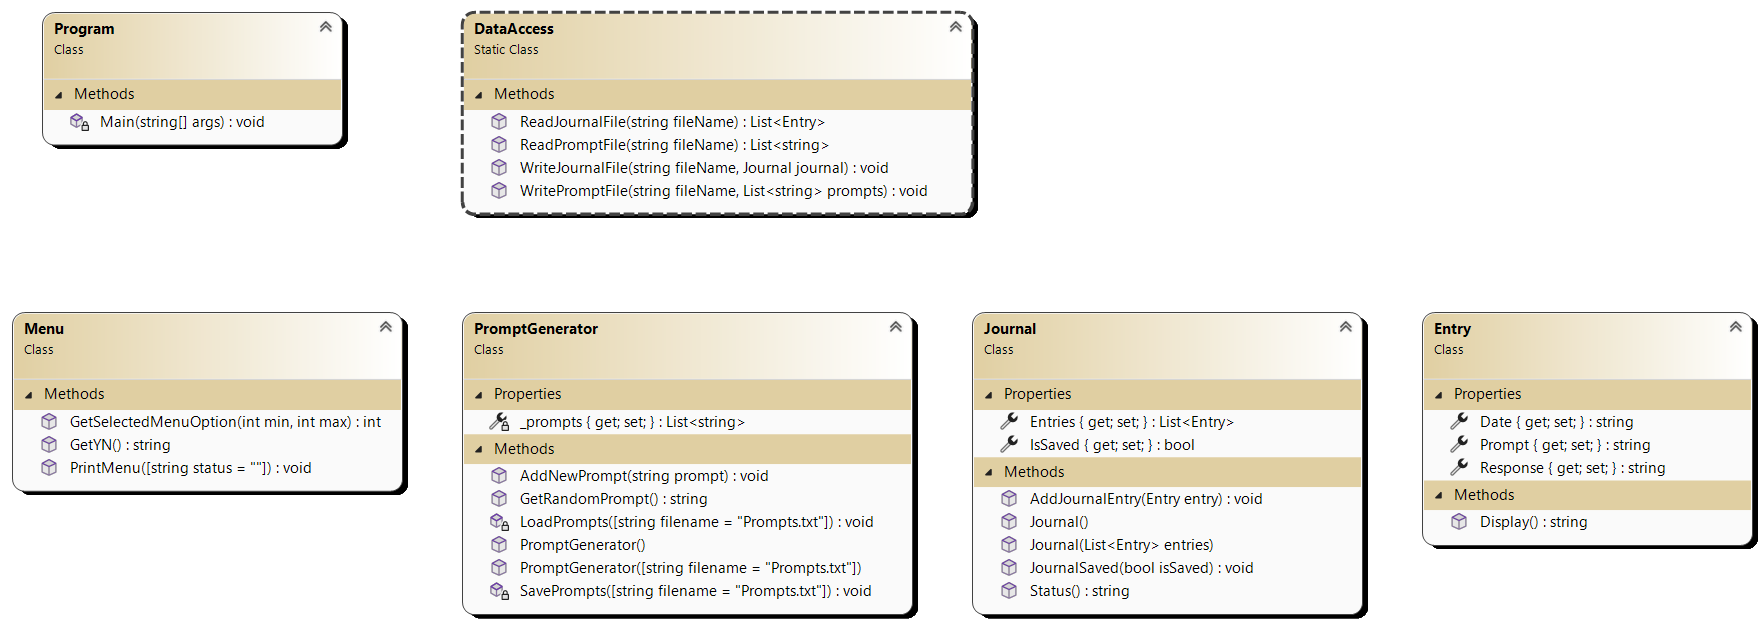
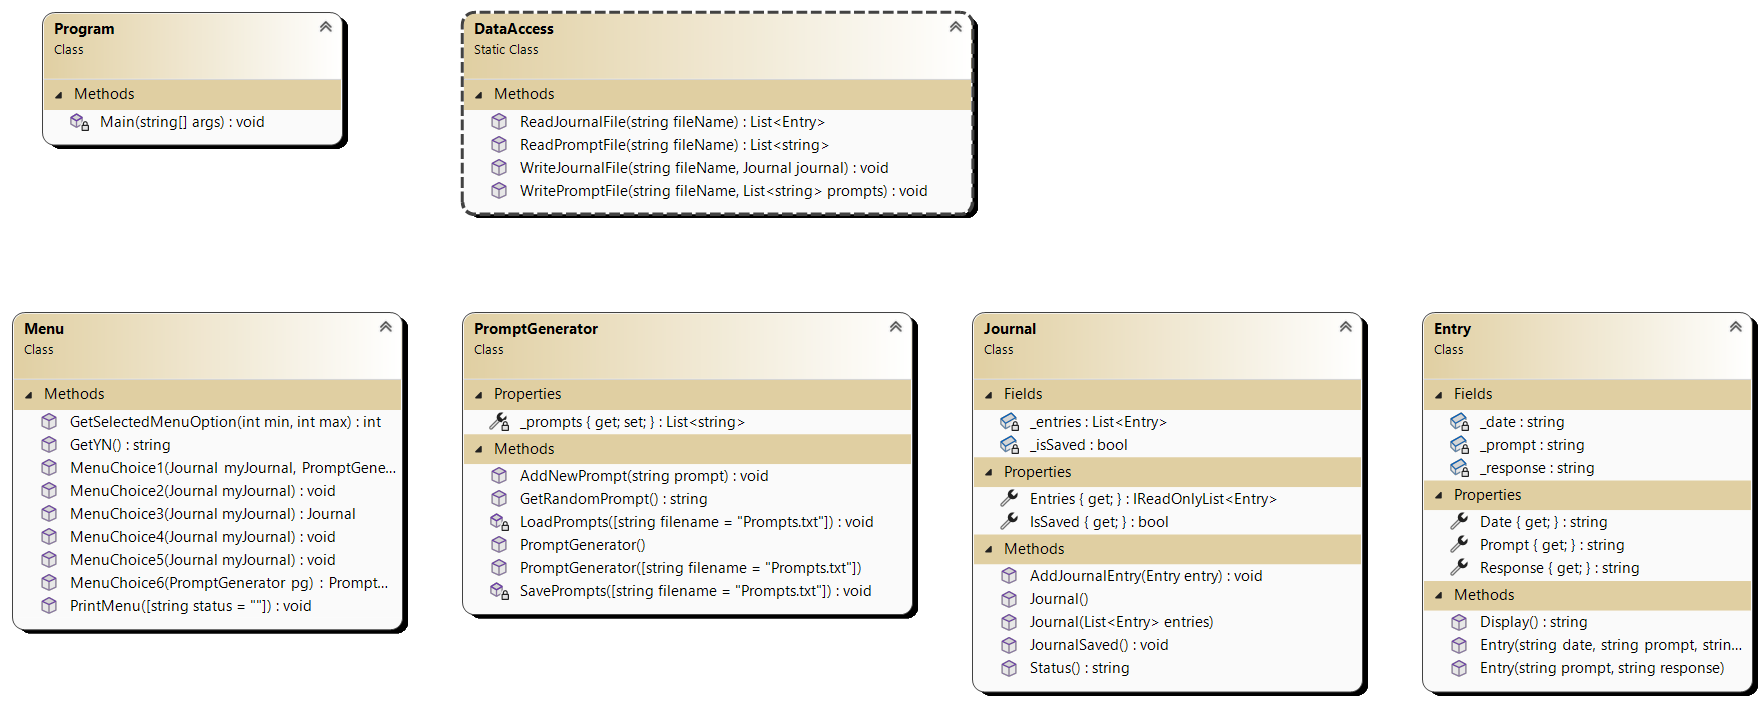
Refactored Menu Choice
Moved bulk of program switch code to menu class with menu choice 1-6.

diff --git a/prove/Develop02/Menu.cs b/prove/Develop02/Menu.cs
@@ -3,43 +3,41 @@ public class Menu
 
     public static void PrintMenu(string status = "")
     {
-
+        System.Console.WriteLine();
         System.Console.WriteLine($"Welcome to the Journal Program! {status} ");
         System.Console.WriteLine($"1. Write");
         System.Console.WriteLine($"2. Display");
         System.Console.WriteLine($"3. Load");
         System.Console.WriteLine($"4. Save");
         System.Console.WriteLine($"5. Quit");
+        System.Console.WriteLine($"6. Add new daily prompt");
         System.Console.Write($"What would you like to do? ");
-
     }
 
-
-/// <summary>
-/// This function gets a user's selected menu option within a specified range of values.
-/// </summary>
-/// <param name="min">The minimum value that the user can enter as a menu option.</param>
-/// <param name="max">The maximum value that the user is allowed to enter.</param>
-/// <returns>
-/// The method is returning an integer value, which is the user's selected menu option within the
-/// specified range of minimum and maximum values.
-/// </returns>
+    /// <summary>
+    /// This function gets a user's selected menu option within a specified range of values.
+    /// </summary>
+    /// <param name="min">The minimum value that the user can enter as a menu option.</param>
+    /// <param name="max">The maximum value that the user is allowed to enter.</param>
+    /// <returns>
+    /// The method is returning an integer value, which is the user's selected menu option within the
+    /// specified range of minimum and maximum values.
+    /// </returns>
     public static int GetSelectedMenuOption(int min, int max)
     {
-            //Used tryparse incase someone enters a value other then a int
-            int choice = 0;
-            string response = Console.ReadLine();
-            bool success = int.TryParse(response, out choice);
+        //Used tryparse incase someone enters a value other then a int
+        int choice = 0;
+        string response = Console.ReadLine();
+        bool success = int.TryParse(response, out choice);
 
-            while (choice < min || choice > max )
-            {
-                System.Console.WriteLine($"Please enter a value between {min} and {max}");
-                response = Console.ReadLine();
-                success = int.TryParse(response, out choice);
-            }
-            return choice;
+        while (choice < min || choice > max)
+        {
+            System.Console.WriteLine($"Please enter a value between {min} and {max}");
+            response = Console.ReadLine();
+            success = int.TryParse(response, out choice);
+        }
+        return choice;
     }
-
 
     /// <summary>
     /// The function prompts the user to enter "Y" or "N" and returns the lowercase version of the input.
@@ -57,5 +55,139 @@ public class Menu
         }
         return choice;
     }
+
+/// <summary>
+/// The function prompts the user with a random prompt, takes their response, creates a new journal
+/// entry with the prompt and response, and adds it to the journal.
+/// </summary>
+/// <param name="Journal">A class that represents a journal or diary, which contains a collection of
+/// entries.</param>
+/// <param name="PromptGenerator">PromptGenerator is a class that generates random prompts for journal
+/// entries. It is used in the MenuChoice1 method to get a random prompt for the user to respond
+/// to.</param>
+    public static void MenuChoice1(Journal myJournal, PromptGenerator pg)
+    {
+        string prompt = pg.GetRandomPrompt();
+        System.Console.WriteLine(prompt);
+        Console.Write("> ");
+        string response = Console.ReadLine();
+        Entry myEntry = new Entry(prompt, response);
+        myJournal.AddJournalEntry(myEntry);
+
+    }
+/// <summary>
+/// The function displays all entries in a journal.
+/// </summary>
+/// <param name="Journal">The parameter "myJournal" is an instance of the Journal class, which is likely
+/// a custom class created by the programmer to represent a journal or diary. The method MenuChoice2
+/// takes this instance as a parameter and uses it to display all the entries in the journal.</param>
+    public static void MenuChoice2(Journal myJournal)
+    {
+        System.Console.WriteLine();
+        foreach (var item in myJournal.Entries)
+        {
+            System.Console.WriteLine(item.Display());
+            System.Console.WriteLine();
+        }
+
+    }
+/// <summary>
+/// This function loads or saves a journal file based on user input and returns the updated journal.
+/// </summary>
+/// <param name="Journal">A class representing a journal, containing a list of entries and a boolean
+/// indicating whether it has been saved or not.</param>
+/// <returns>
+/// The method is returning an instance of the Journal class.
+/// </returns>
+    public static Journal MenuChoice3(Journal myJournal)
+    {
+        string filename;
+        if (myJournal.IsSaved == false && myJournal.Entries.Count > 0)
+        {
+            System.Console.WriteLine("Your Journal has been modified since it's last save,  would you like to save it now? Y/N");
+            string mustSave = Menu.GetYN();
+            if (mustSave.ToLower()[0] == 'y')
+            {
+                System.Console.Write("What is the filename to save? ");
+                filename = Console.ReadLine();
+                DataAccess.WriteJournalFile(filename, myJournal);
+            }
+            else
+            {
+                System.Console.Write("What is the filename to load? ");
+                filename = Console.ReadLine();
+                myJournal = new(DataAccess.ReadJournalFile(filename));
+                myJournal.JournalSaved();
+            }
+        }
+        else
+        {
+            System.Console.Write("What is the filename to load? ");
+            filename = Console.ReadLine();
+            myJournal = new(DataAccess.ReadJournalFile(filename));
+            myJournal.JournalSaved();
+        }
+        return myJournal;
+    }
+
+/// <summary>
+/// This function prompts the user for a filename and saves a journal object to a file using the
+/// DataAccess class.
+/// </summary>
+/// <param name="Journal">The Journal parameter is an object of the Journal class, which contains
+/// information about a person's daily activities, thoughts, and experiences. It may include entries
+/// such as the date, time, location, and description of events.</param>
+    public static void MenuChoice4(Journal myJournal)
+    {
+        string filename;
+        System.Console.Write("What is the filename to save? ");
+        filename = Console.ReadLine();
+        DataAccess.WriteJournalFile(filename, myJournal);
+    }
+
+/// <summary>
+/// This function prompts the user to save their journal if it has been modified since the last save.
+/// </summary>
+/// <param name="Journal">The Journal parameter is an object of the Journal class, which represents a
+/// journal that the user has created and is currently working on. It contains various properties and
+/// methods to manage the journal entries and perform operations on them.</param>
+    public static void MenuChoice5(Journal myJournal)
+    {
+        string filename;
+        if (myJournal.IsSaved == false)
+        {
+            System.Console.WriteLine("Your Journal has been modified since it's last save,  would you like to save it now? Y/N");
+            string mustSave = Menu.GetYN();
+            if (mustSave.ToLower()[0] == 'y')
+            {
+                System.Console.Write("What is the filename to save? ");
+                filename = Console.ReadLine();
+                DataAccess.WriteJournalFile(filename, myJournal);
+            }
+        }
+    }
+
+/// <summary>
+/// The function prompts the user to enter a new daily prompt and adds it to the prompt generator.
+/// </summary>
+/// <param name="PromptGenerator">PromptGenerator is a class that likely contains methods and properties
+/// related to generating prompts. It is being used as a parameter for the MenuChoice6 method, which
+/// suggests that MenuChoice6 is a method within the PromptGenerator class.</param>
+/// <returns>
+/// The method is returning an instance of the PromptGenerator class.
+/// </returns>
+    public static PromptGenerator MenuChoice6(PromptGenerator pg)
+    {
+        System.Console.WriteLine();
+        System.Console.WriteLine("Enter new daily prompt. ");
+        string prompt = Console.ReadLine();
+        if (prompt.Length > 0)
+        {
+            pg.AddNewPrompt(prompt);
+        }
+        return pg;
+    }
+
+
 
 }

diff --git a/prove/Develop02/Program.cs b/prove/Develop02/Program.cs
@@ -7,81 +7,37 @@ class Program
 
         Journal myJournal = new Journal();
         PromptGenerator pg = new();
-        string filename = "";
         int choice = 0;
-
 
         while (choice != 5)
         {
             Menu.PrintMenu(myJournal.Status());
-            choice = Menu.GetSelectedMenuOption(1, 5);
+            choice = Menu.GetSelectedMenuOption(1, 6);
 
             switch (choice)
             {
                 case 1: //Write
-                    string prompt = pg.GetRandomPrompt();
-                    System.Console.WriteLine(prompt);
-                    Console.Write("> ");
-                    string response = Console.ReadLine();
-                    Entry myEntry = new Entry(prompt, response);
-                    myJournal.AddJournalEntry(myEntry);
+                    Menu.MenuChoice1(myJournal, pg);
                     break;
                 case 2: //Display
-                    foreach (var item in myJournal.Entries)
-                    {
-                        System.Console.WriteLine(item.Display());
-                        System.Console.WriteLine();
-                    }
+                    Menu.MenuChoice2(myJournal);
                     break;
                 case 3: //Load
-                    if (myJournal.IsSaved == false && myJournal.Entries.Count > 0)
-                    {
-                        System.Console.WriteLine("Your Journal has been modified since it's last save,  would you like to save it now? Y/N");
-                        string mustSave = Menu.GetYN();
-                        if (mustSave.ToLower()[0] == 'y')
-                        {
-                            System.Console.Write("What is the filename to save? ");
-                            filename = Console.ReadLine();
-                            DataAccess.WriteJournalFile(filename, myJournal);
-                        }
-                        else
-                        {
-                            System.Console.Write("What is the filename to load? ");
-                            filename = Console.ReadLine();
-                            myJournal = new(DataAccess.ReadJournalFile(filename));
-                            myJournal.JournalSaved();
-                        }
-                    }
-                    else
-                    {
-                        System.Console.Write("What is the filename to load? ");
-                        filename = Console.ReadLine();
-                        myJournal = new(DataAccess.ReadJournalFile(filename));
-                        myJournal.JournalSaved();
-                    }
+                    myJournal = Menu.MenuChoice3(myJournal);
                     break;
                 case 4: // Save
-                    System.Console.Write("What is the filename to save? ");
-                    filename = Console.ReadLine();
-                    DataAccess.WriteJournalFile(filename, myJournal);
+                    Menu.MenuChoice4(myJournal);
                     break;
                 case 5:
-                    if (myJournal.IsSaved == false)
-                    {
-                        System.Console.WriteLine("Your Journal has been modified since it's last save,  would you like to save it now? Y/N");
-                        string mustSave = Menu.GetYN();
-                        if (mustSave.ToLower()[0] == 'y')
-                        {
-                            System.Console.Write("What is the filename to save? ");
-                            filename = Console.ReadLine();
-                            DataAccess.WriteJournalFile(filename, myJournal);
-                        }
-                    }
+                    Menu.MenuChoice5(myJournal);
+                    break;
+                case 6:
+                    pg = Menu.MenuChoice6(pg);
                     break;
                 default:
                     break;
-
             }
+
         }
     }
 }
